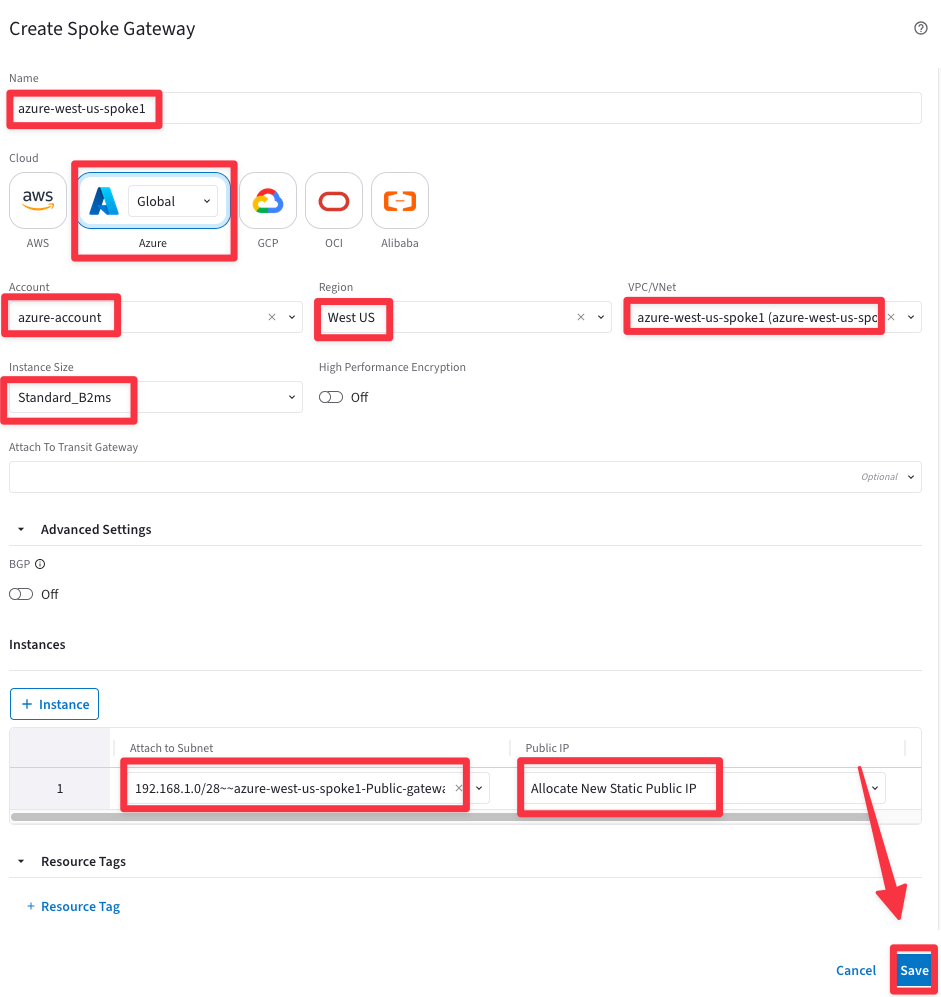
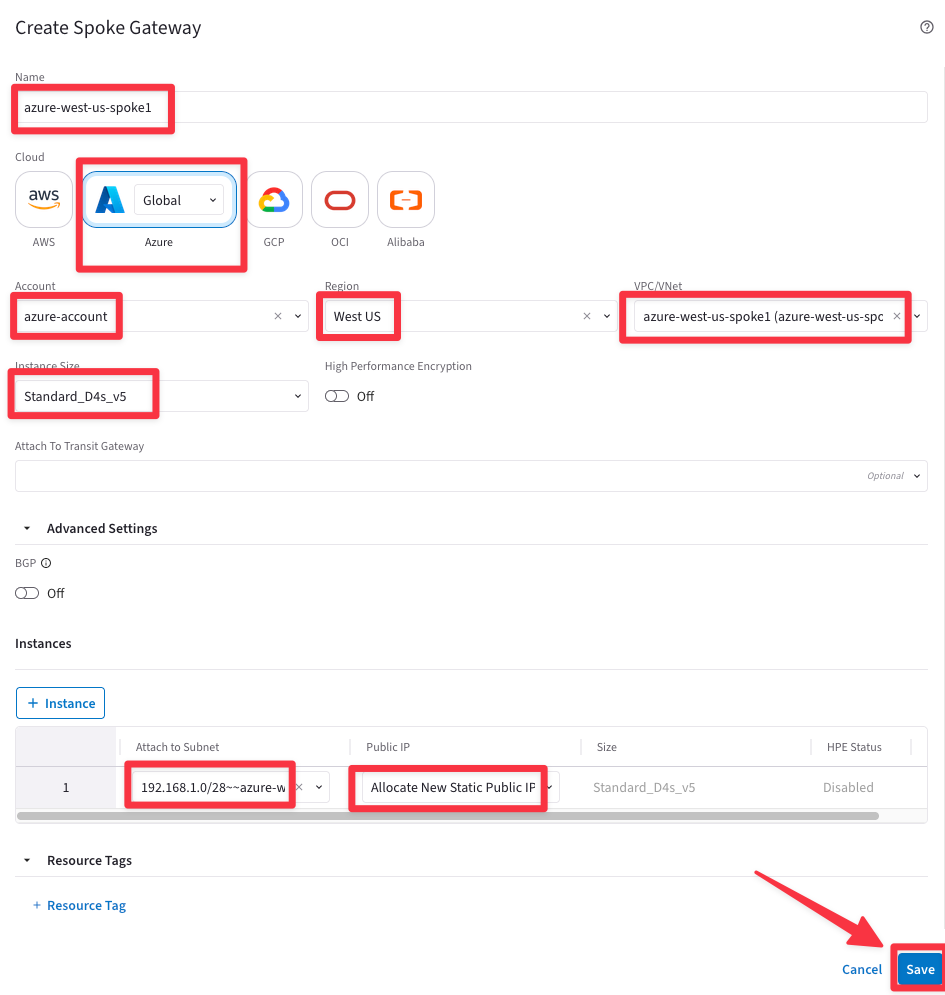
update for pro

diff --git a/ace_pro/docs/lab2.md b/ace_pro/docs/lab2.md
@@ -478,7 +478,7 @@ Only one Spoke Gateway will be deployed in VPC **aws-us-east2-spoke1**.
 - **Account:** <span style='color:#479608'>aws-account</span>
 - **Region:** <span style='color:#479608'>us-east-2 (Ohio)</span>
 - **VPC ID:** <span style='color:#479608'>aws-us-east-2-spoke1 (Make sure you don't select aws-us-east-2-**transit** VPC)</span>
-- **Instance Size:** <span style='color:#479608'>t3.medium</span>
+- **Instance Size:** <span style='color:#479608'>c6in.large</span>
 - **High Performance Encryption:** <span style='color:#479608'>**Off**</span>
 - **Attach to Subnet:** <span style='color:#479608'>10.0.1.96/27 - aws-us-east-2-spoke1-Public-1-us-east-2a</span>
 - **Public IP:** <span style='color:#479608'>Allocate New Static Public IP</span>
@@ -507,7 +507,7 @@ Only one Spoke Gateway will be deployed in VNet **azure-west-us-spoke1**.
 - **Account:** <span style='color:#479608'>azure-account</span>
 - **Region:** <span style='color:#479608'>West US</span>
 - **VNet:** <span style='color:#479608'>azure-west-us-spoke1 (Make sure you don't select azure-west-us-**spoke2** VPC)</span>
-- **Instance Size:** <span style='color:#479608'>Standard_B2ms</span>
+- **Instance Size:** <span style='color:#479608'>Standard_D4s_v5</span>
 - **High Performance Encryption:** <span style='color:#479608'>**Off**</span>
 - **Attach to Subnet:** <span style='color:#479608'>192.168.1.0/28 - azure-west-us-spoke1-Public-gateway-subnet-1</span>
 - **Public IP:** <span style='color:#479608'>Allocate New Static Public IP</span>
